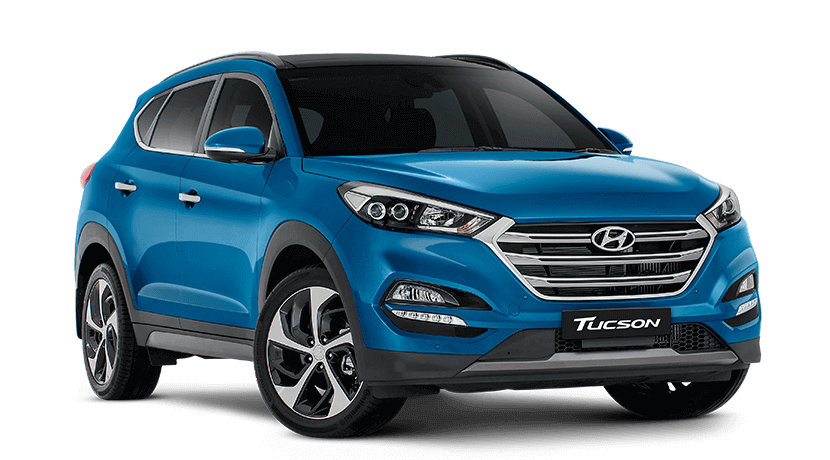
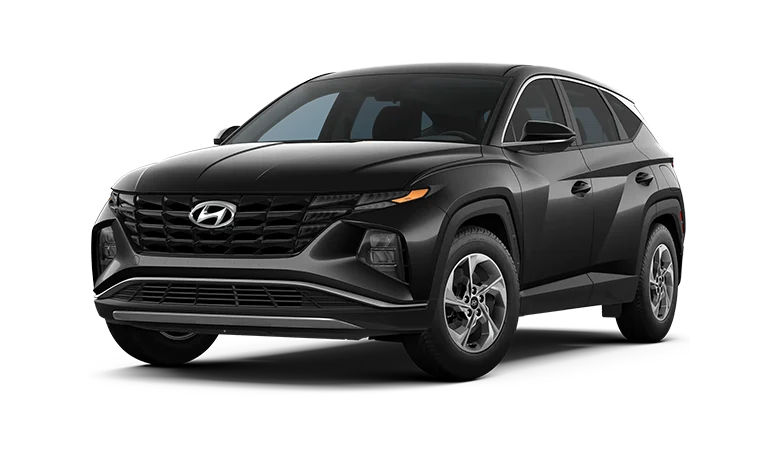
car images updates

diff --git a/constants/constants.ts b/constants/constants.ts
@@ -46,23 +46,39 @@ export const bookingStatuses = [
 export const vehicleTypes = [
   {
     id: 1,
-    value: 'car',
-    localizedValue: 'کار',
+    value: 'Camry(4 Seater)',
+    localizedValue: 'کیمرے',
   },
   {
     id: 2,
-    value: 'bike',
-    localizedValue: 'بائیک',
+    value: 'H1 (7 Seater)',
+    localizedValue: 'ایچ ون',
   },
   {
     id: 3,
-    value: 'pickup',
-    localizedValue: 'پک اپ',
+    value: 'GMC(7 Seater)',
+    localizedValue: 'جی ایم سی',
 
-  },{
+  },
+  {
     id: 4,
-    value: 'van',
-    localizedValue: 'وین',
+    value: 'Staria(7 Seater)',
+    localizedValue: 'سٹاریا',
+  },
+  {
+    id: 5,
+    value: 'Hiace(12 Seater)',
+    localizedValue: 'ہائی ایس',
+  },
+  {
+    id: 6,
+    value: 'Coaster(18 Seater)',
+    localizedValue: 'کوسٹر',
+  },
+  {
+    id: 7,
+    value: 'Luxury Bus(18 Seater)',
+    localizedValue: 'لکثری بس',
   },
 ];
 
@@ -177,37 +193,37 @@ export const footerLinks = [
 export const allCars = [
   {
     city_mpg: 16,
-    class: 'compact car',
+    class: 'ford',
     combination_mpg: 19,
     cylinders: 6,
     displacement: 2.8,
     drive: 'fwd',
     fuel_type: 'gas',
     highway_mpg: 26,
-    make: 'audi',
-    urMake: 'آڈی',
-    arMake: 'آدی',
+    make: 'ford',
+    urMake: 'فورڈ',
+    arMake: 'فورڈ',
     model: 'a4',
     transmission: 'a',
     year: 1996,
-    pic:'/pngwing.com.png'
+    pic:'/Ford.webp'
   },
   {
     city_mpg: 17,
-    class: 'compact car',
+    class: 'Tucson',
     combination_mpg: 20,
     cylinders: 6,
     displacement: 2.8,
     drive: 'fwd',
     fuel_type: 'gas',
     highway_mpg: 25,
-    make: 'corola',
-    urMake: 'کرولا',
-    arMake: 'کورولا',
-    model: 'GLI',
+    make: 'Hyundai',
+    urMake: 'ٹکسن',
+    arMake: 'ٹکسن',
+    model: 'TUCSON',
     transmission: 'm',
     year: 1996,
-    pic:'/yaris.png'
+    pic:'/tucson.png'
   },
   {
     city_mpg: 16,
@@ -218,13 +234,13 @@ export const allCars = [
     drive: 'awd',
     fuel_type: 'gas',
     highway_mpg: 25,
-    make: 'Honda',
-    urMake: 'ہونڈا',
-    arMake: 'ہوندا',
-    model: 'civic',
+    make: 'Hyundai',
+    urMake: 'ہنڈائی',
+    arMake: 'ہنڈائی',
+    model: 'SONATA',
     transmission: 'a',
     year: 1996,
-    pic:'/corrola.png'
+    pic:'/Sonata.png'
   },
   {
     city_mpg: 17,
@@ -235,13 +251,13 @@ export const allCars = [
     drive: 'awd',
     fuel_type: 'gas',
     highway_mpg: 24,
-    make: 'Suzuki',
-    urMake: 'سوزوکی',
-    arMake: 'سوزوکی',
-    model: 'bolan',
+    make: 'Toyota',
+    urMake: 'ٹویوٹا',
+    arMake: 'ٹویوٹا',
+    model: 'CAMRY',
     transmission: 'm',
     year: 1996,
-    pic:'/redCar.png'
+    pic:'/Camry-Toyota.png'
   },
   {
     city_mpg: 18,
@@ -252,13 +268,13 @@ export const allCars = [
     drive: 'fwd',
     fuel_type: 'gas',
     highway_mpg: 27,
-    make: 'MCG',
-    urMake: 'ایم سی جی',
-    arMake: 'ایم سی ',
-    model: 'new',
+    make: 'Young-XL',
+    urMake: 'ینگ ایس ایل',
+    arMake: 'ینگ ایس ایل',
+    model: 'GMC',
     transmission: 'a',
     year: 1997,
-    pic:'/mercedees.png'
+    pic:'/GMC-Young-XL-1.png'
   },
   {
     city_mpg: 18,
@@ -269,12 +285,63 @@ export const allCars = [
     drive: 'fwd',
     fuel_type: 'gas',
     highway_mpg: 27,
-    make: 'audi',
-    urMake: 'آڈی',
-    arMake: 'آدی',
-    model: 'a4',
+    make: 'Toyota',
+    urMake: 'ٹویوٹا',
+    arMake: 'ٹویوٹا',
+    model: 'COASTER',
     transmission: 'a',
     year: 1997,
-    pic:'/tucson.png'
-  }
+    pic:'/Coaster-Toyota.png'
+  },
+  {
+    city_mpg: 17,
+    class: 'compact car',
+    combination_mpg: 20,
+    cylinders: 6,
+    displacement: 2.8,
+    drive: 'awd',
+    fuel_type: 'gas',
+    highway_mpg: 24,
+    make: 'Toyota',
+    urMake: 'ٹویوٹا',
+    arMake: 'ٹویوٹا',
+    model: 'HIACE',
+    transmission: 'm',
+    year: 1996,
+    pic:'/Hiace-Toyota-1.png'
+  },
+  {
+    city_mpg: 18,
+    class: 'compact car',
+    combination_mpg: 21,
+    cylinders: 4,
+    displacement: 1.8,
+    drive: 'fwd',
+    fuel_type: 'gas',
+    highway_mpg: 27,
+    make: 'Hyundai',
+    urMake: 'ہنڈائی',
+    arMake: 'ہنڈائی',
+    model: 'STARIA',
+    transmission: 'a',
+    year: 1997,
+    pic:'/Hyundai-Staria.png'
+  },
+  {
+    city_mpg: 18,
+    class: 'compact car',
+    combination_mpg: 21,
+    cylinders: 4,
+    displacement: 1.8,
+    drive: 'fwd',
+    fuel_type: 'gas',
+    highway_mpg: 27,
+    make: 'Hyundai',
+    urMake: 'ہنڈائی',
+    arMake: 'ہنڈائی',
+    model: 'STAREX-H1',
+    transmission: 'a',
+    year: 1997,
+    pic:'/Hyundai-Starex-H1.png'
+  },
 ];

diff --git a/pages/contactus/index.tsx b/pages/contactus/index.tsx
@@ -1,4 +1,3 @@
-import CustomButton from '@/components/CustomButton';
 import NavBar from '@/components/header/NavBar';
 import ar from '@/locales/ar';
 import en from '@/locales/en';
@@ -16,7 +15,7 @@ import Footer from '@/components/Footer';
 function ContactUs() {
   const router = useRouter();
   const { locale } = router;
-  const t = locale === 'en' ? en : (locale === 'ar' ? ar : ur);
+  const t = locale === 'en' ? en : locale === 'ar' ? ar : ur;
   const [email, setEmail] = useState('');
   const [subject, setSubject] = useState('');
   const [message, setMessage] = useState('');
@@ -51,9 +50,21 @@ function ContactUs() {
     <main className='overflow-hidden'>
       <NavBar />
       <div className='hero'>
-      <div className='padding-x flex-1 pt-28'>
-      <h1 className='hero__title'>{t.contactUs}</h1>
-      <div className=' h-80 w-full p-4 bg-black bg-opacity-50'>
+        <div className='padding-x flex-1 pt-14'>
+          <h1 className='hero__title'>{t.contactUs}</h1>
+          {/* <div className=' h-80 w-full p-4 bg-black bg-opacity-50'> */}
+          <div
+            id='cover'
+            //ref={coverRef}
+            className='flex h-96 w-full items-center justify-center overflow-y-auto overflow-x-hidden bg-gray-100 p-4'
+            style={{
+              backgroundImage: `url(makkah-cover.jpg)`,
+              backgroundSize: 'cover',
+              backgroundPosition: 'center',
+              // Add any other background properties you need
+            }}
+          >
+            <div className='h-full w-full bg-black bg-opacity-50 p-4'>
               <form
                 className='w-full space-y-4'
                 onSubmit={(e) => {
@@ -104,7 +115,7 @@ function ContactUs() {
                       placeholder={t.message}
                       required
                     />
-                </div>
+                  </div>
                 </div>
                 <Button
                   type='submit'
@@ -115,17 +126,17 @@ function ContactUs() {
                   {t.send}
                 </Button>
               </form>
-              
             </div>
-      </div>
-      <div className='hero__image-container'>
-        <div className='hero__image'>
-          <Image src='/hero.png' alt='hero' fill className='object-contain' />
+          </div>
         </div>
-        <div className='rtl:hidden hero__image-overlay' />
+        <div className='hero__image-container'>
+          <div className='hero__image'>
+            <Image src='/hero.png' alt='hero' fill className='object-contain' />
+          </div>
+          <div className='hero__image-overlay rtl:hidden' />
+        </div>
       </div>
-    </div>
-    <Footer />
+      <Footer />
     </main>
   );
 }

diff --git a/components/Footer.tsx b/components/Footer.tsx
@@ -55,17 +55,9 @@ const Footer = () => {
         </div> */}
       </div>
 
-      <div className='mt-2 flex flex-wrap items-center justify-between border-t border-gray-100 px-6 py-2'>
+      <div className='mt-2 flex flex-wrap items-center justify-center sm:justify-between border-t border-gray-100 px-6 py-2'>
         <p dir='ltr'>@2024 CarHub. {t.allRightsReserved}</p>
 
-        <div className='footer__copyrights-link'>
-          <Link href='/' className='text-gray-500'>
-            {t.privacyPolicy}
-          </Link>
-          <Link href='/' className='text-gray-500'>
-            {t.termsCondition}
-          </Link>
-        </div>
       </div>
     </footer>
   );

diff --git a/pages/cabsbooking/index.tsx b/pages/cabsbooking/index.tsx
@@ -7,9 +7,7 @@ import { allCars, fuels, yearsOfProduction } from '@/constants/constants';
 import ar from '@/locales/ar';
 import en from '@/locales/en';
 import { HomeProps } from '@/types/intefaces';
-import { fetchCars } from '@/utils';
 import { useRouter } from 'next/router';
-import { useEffect, useState } from 'react';
 
 function Home({ searchParams }: HomeProps) {
   const router = useRouter();

diff --git a/components/Hero.tsx b/components/Hero.tsx
@@ -20,7 +20,7 @@ const Hero = () => {
 
   return (
     <div dir='ltr' className='hero'>
-      <div className='padding-x flex-1 pt-36'>
+      <div className='padding-x flex-1 pt-14'>
         <h1 className='hero__title'>{t.cabsBookingMain}</h1>
 
         <p className='hero__subtitle'>
